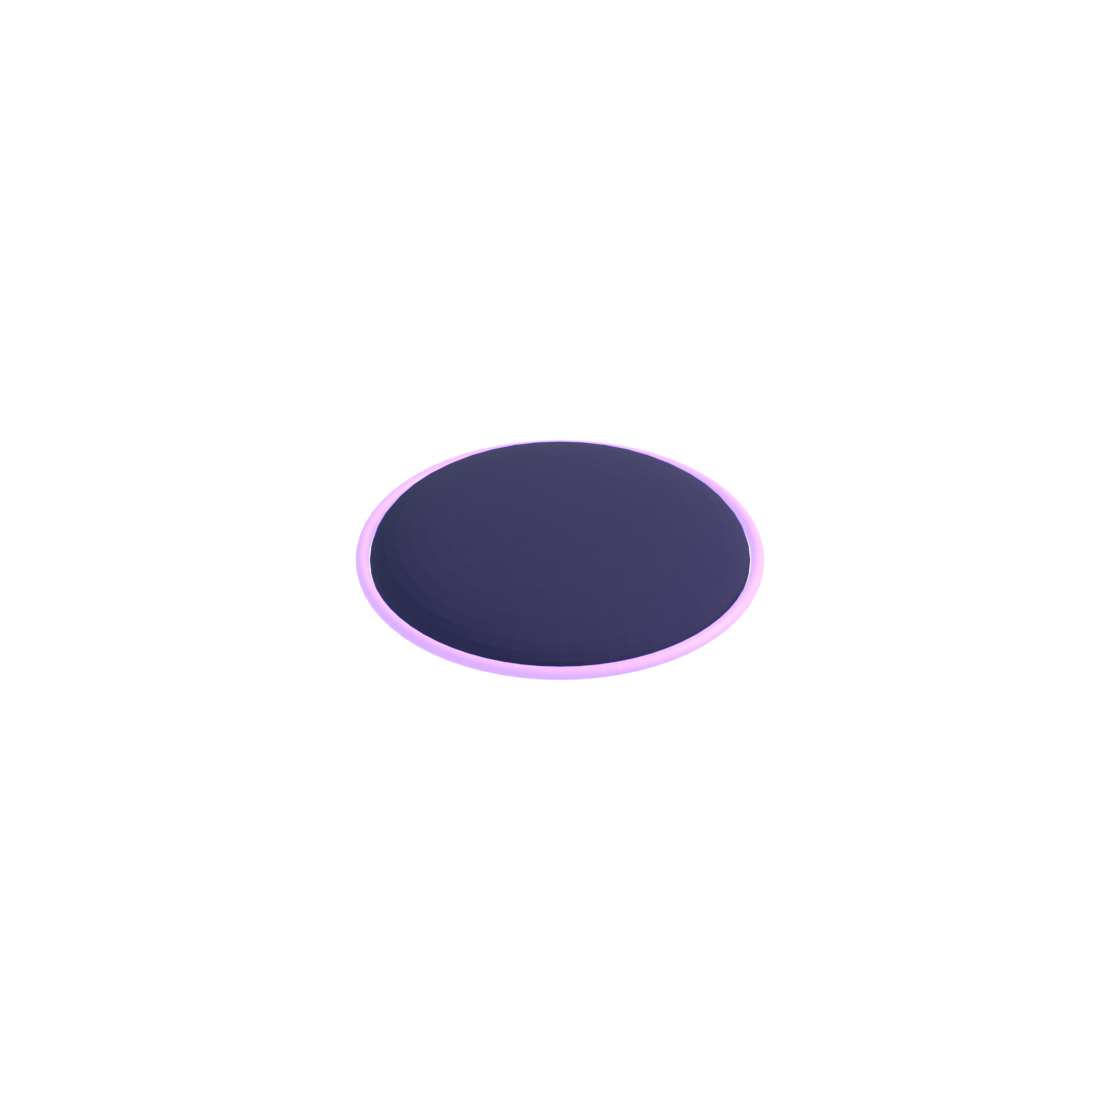
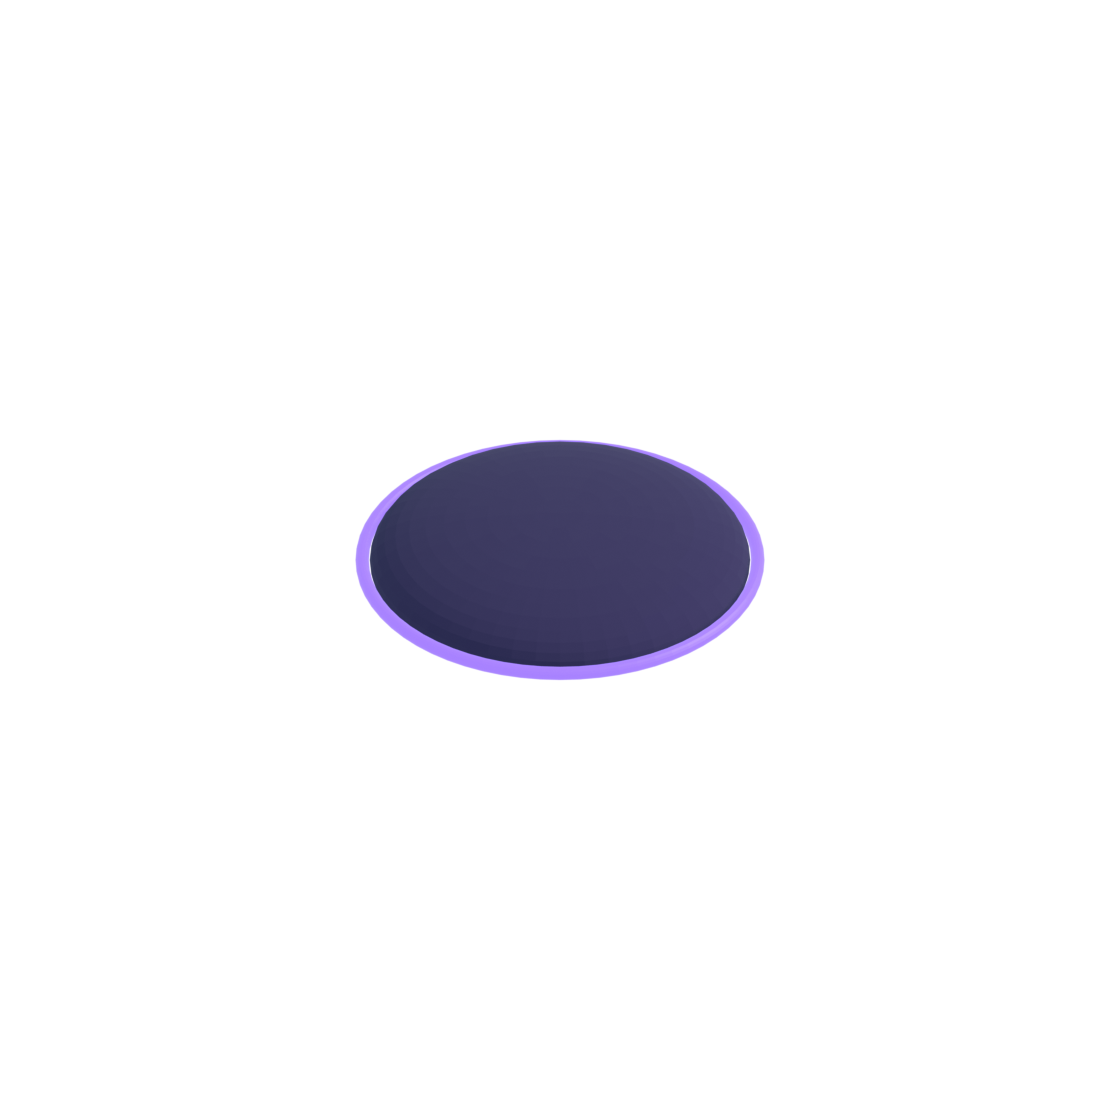
feat(art): make the black hole's rim a saturated violet, measured against the design
Two refinements to the void fix, both measured rather than eyeballed.

The rim was rendering pale lilac, (226,182,255), against the design's 能量紫
(155,92,255). Dropping Emission Strength from 1.30 to 0.95 -- the clip I suspected
-- moved saturation only from 73 to 85, so the emission was not the cause. The
cause is the Base Color: with the full colour as base, the scene lights it and the
lit contribution is nearly white, washing a (92,46,250) base into a (209,170,255)
band. Setting the base to a tenth of the colour makes the rim emissive-dominant
and takes saturation to 121, (172,134,255) -- close to the target, and visibly a
violet band rather than a lilac one.

The method note is the point: I guessed the emission clip and the measurement
refused it, so the second change went after what the first measurement said was
actually wrong. Before and after in
artifacts/qa/v12/ui-current/rim-compare.png.

Still not exact: the rim reads (172,134,255) against (155,92,255), and the core is
(63,60,99) rather than true black because the sky lights it. Both are single values
in the same function, and both are recorded rather than rounded off in the report.

Changed region(s): [[0.5625, 0.4062, 0.6875, 0.5938], [0.3125, 0.4062, 0.4375, 0.5938], [0.4375, 0.5938, 0.5625, 0.625]]

diff --git a/art-source/blender/render_v95_assets.py b/art-source/blender/render_v95_assets.py
@@ -135,11 +135,21 @@ def add_black_hole(x, y, radius=0.9, ring_colour=(0.42, 0.24, 1.0), name='hole')
     emission = bpy.data.materials.new(f'{name}-ring-mat')
     emission.use_nodes = True
     ring_shader = principled_of(emission)
-    ring_shader.inputs['Base Color'].default_value = (*ring_colour, 1.0)
+    # The rim is emissive-dominant on purpose. With the full-strength colour as
+    # Base Color the scene lights it too, and the lit contribution is nearly
+    # white, so the band rendered (209,170,255) -- a pale lilac -- from a base of
+    # (92,46,250). Measured: dropping emission alone only moved saturation from 73
+    # to 85, because the wash comes from the base, not the emission. A tenth of
+    # the colour as base keeps the scene's contribution small so the emission
+    # carries the hue, which is what the design sheets show.
+    ring_shader.inputs['Base Color'].default_value = (ring_colour[0] * 0.1, ring_colour[1] * 0.1, ring_colour[2] * 0.1, 1.0)
     ring_shader.inputs['Emission Color'].default_value = (*ring_colour, 1.0)
-    # Low enough that the ring keeps its colour: at 3.5 under the Standard
-    # view transform every channel clipped and the ring rendered white.
-    ring_shader.inputs['Emission Strength'].default_value = 1.30
+    # V12: was 1.30, which kept the ring visible but washed its colour -- at that
+    # strength the blue channel reaches 1.0 and clips, so the design's saturated
+    # violet rendered as pale lilac. The earlier note is still the right warning
+    # in the other direction: 3.5 clipped every channel and the ring went white.
+    # 0.95 sits under the clip for this hue and keeps it a violet band.
+    ring_shader.inputs['Emission Strength'].default_value = 0.95
     ring.data.materials.append(emission)
     return [sphere, ring]
 
